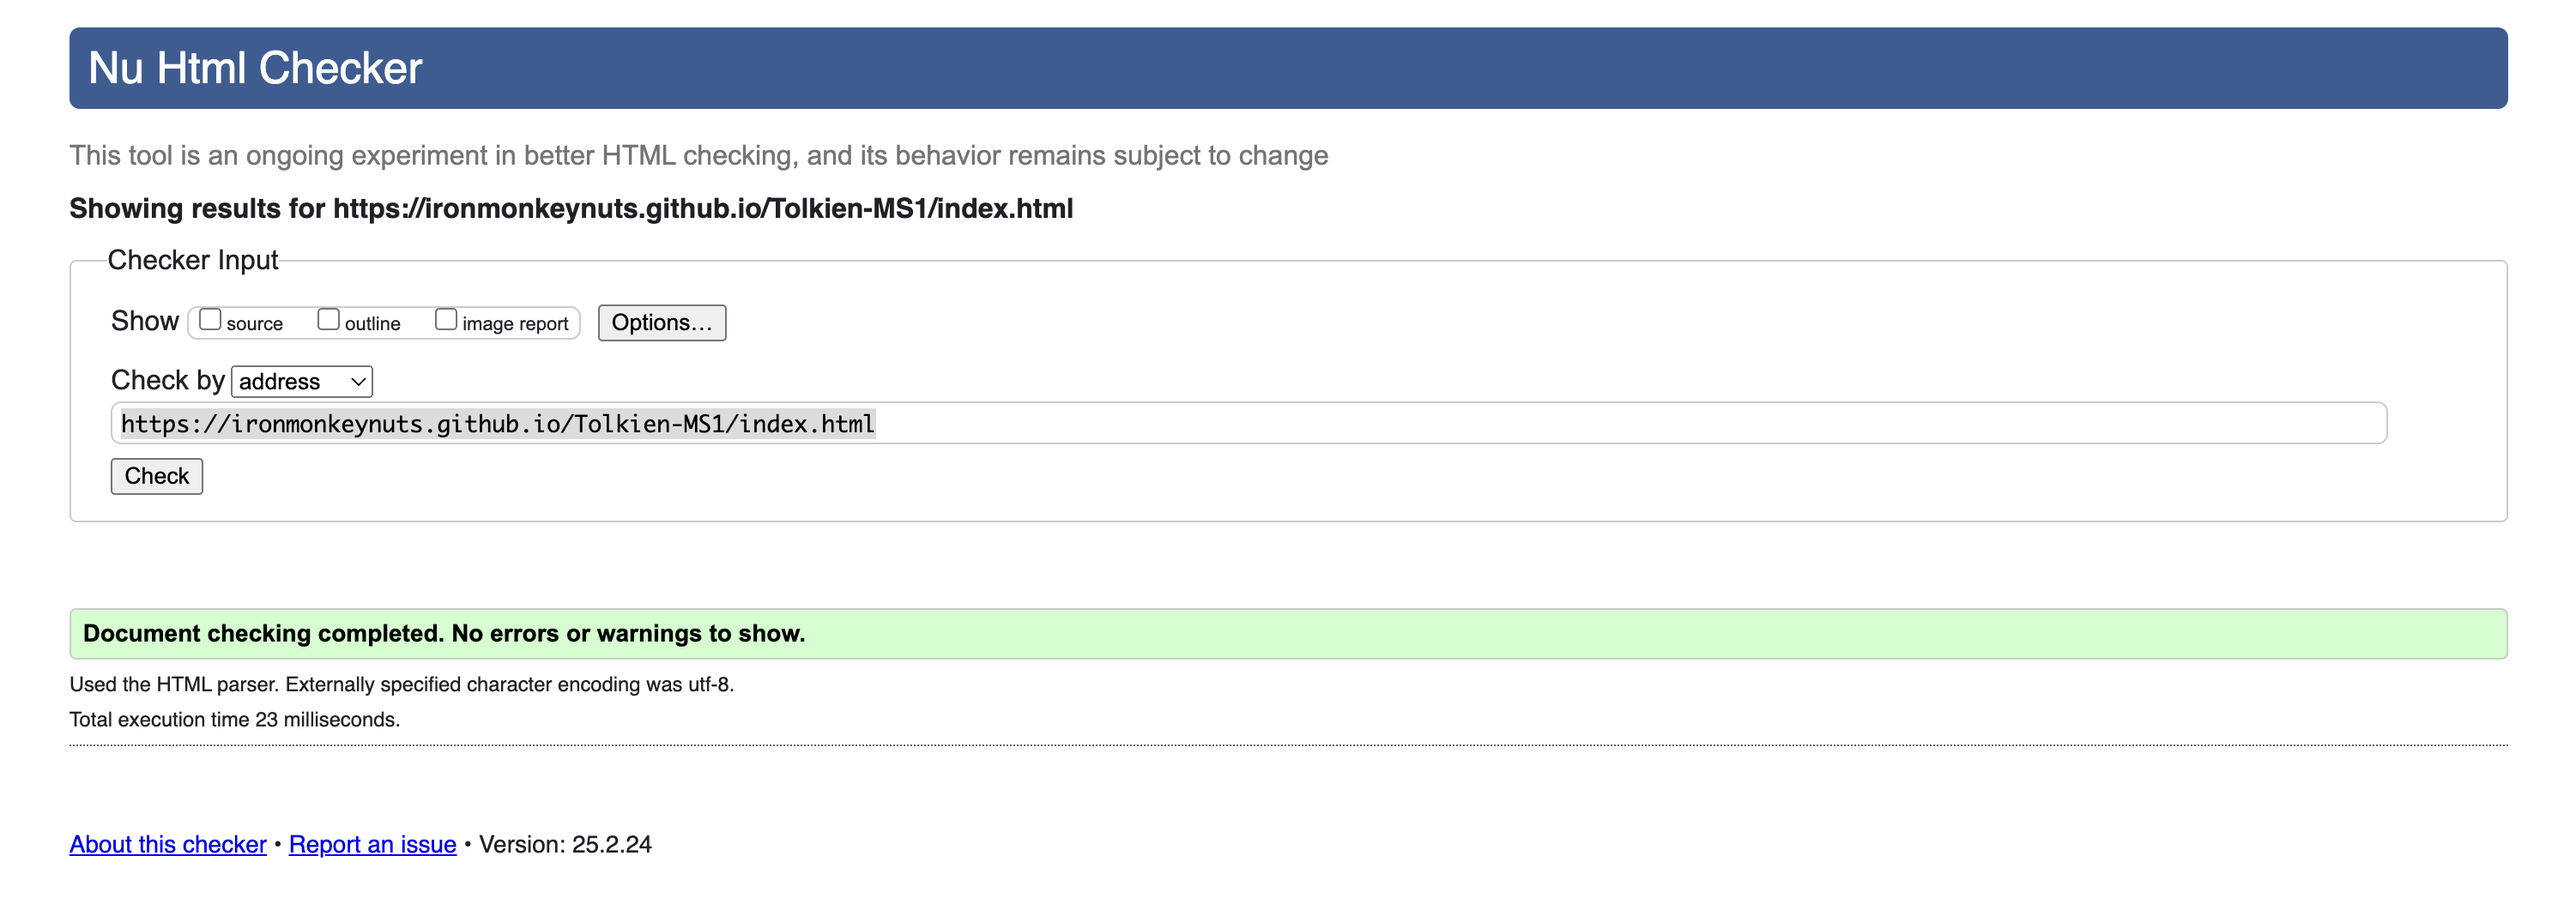
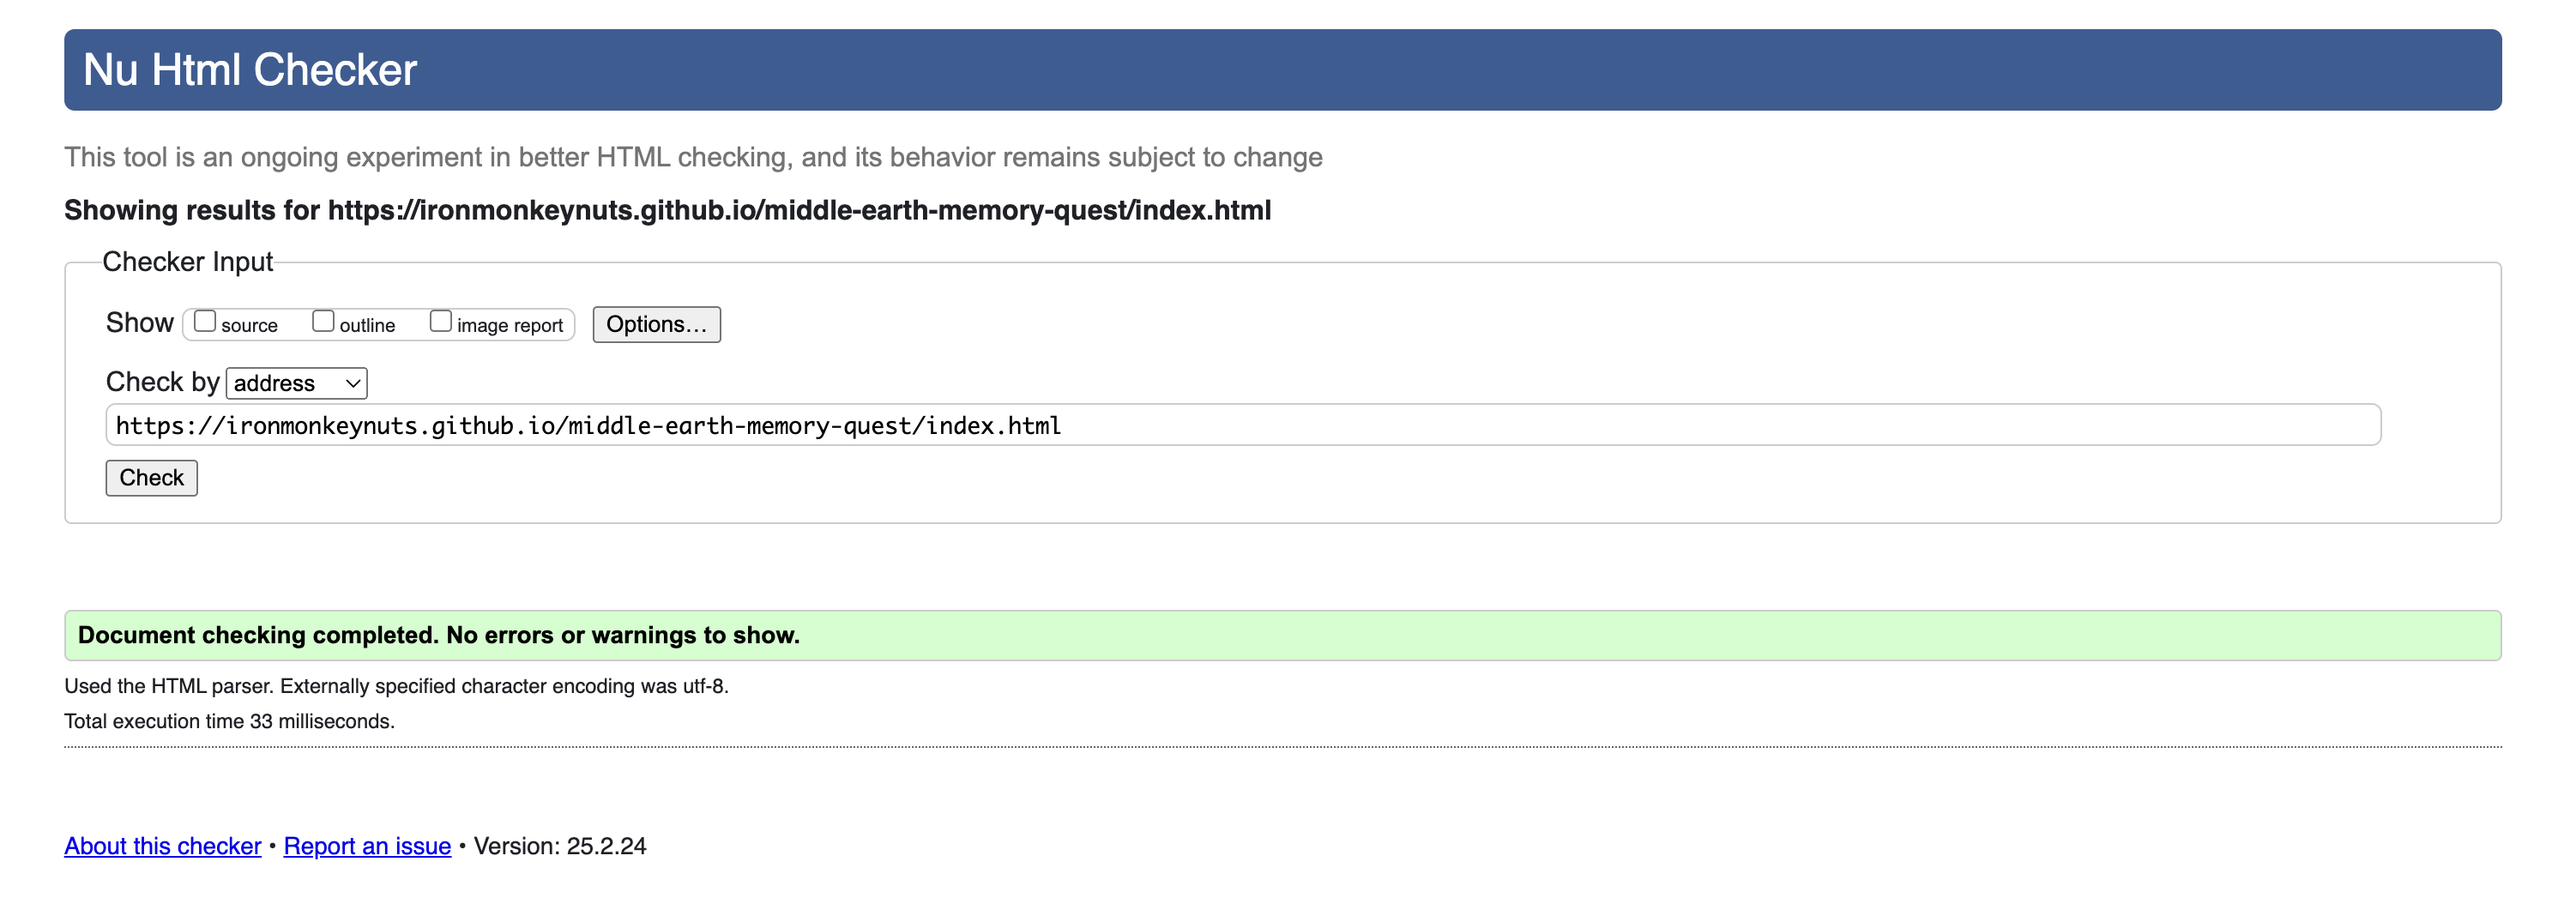
Edit content in html validator section in README. Add image html-404 and replace image html-index

diff --git a/TESTING.md b/TESTING.md
@@ -11,7 +11,8 @@ I have used the recommended [HTML W3C Validator](https://validator.w3.org) to va
 
 | Directory | File | URL | Screenshot | Notes |
 | --- | --- | --- | --- | --- |
-|  | [index.html](https://ironmonkeynuts.github.io/Tolkien-MS1/index.html) | [HTML Validator](https://validator.w3.org/nu/?doc=https%3A%2F%2Fironmonkeynuts.github.io%2FTolkien-MS1%2Findex.html) | ![screenshot](documentation/validation/html-index.png) | No errors or warnings. |
+|  | [index.html](https://ironmonkeynuts.github.io/middle-earth-memory-quest/index.html) | [HTML Validator](https://validator.w3.org/nu/?doc=https%3A%2F%2Fironmonkeynuts.github.io%2Fmiddle-earth-memory-quest%2Findex.html) | ![screenshot](documentation/validation/html-index.png) | No errors or warnings. |
+|  | [404.html](https://ironmonkeynuts.github.io/Tolkien-MS1/404.html) | [HTML Validator](https://validator.w3.org/nu/?doc=https%3A%2F%2Fironmonkeynuts.github.io%2Fmiddle-earth-memory-quest%2F404.html) | ![screenshot](documentation/validation/html-404.png) | No errors or warnings. |
 
 ### CSS
 
